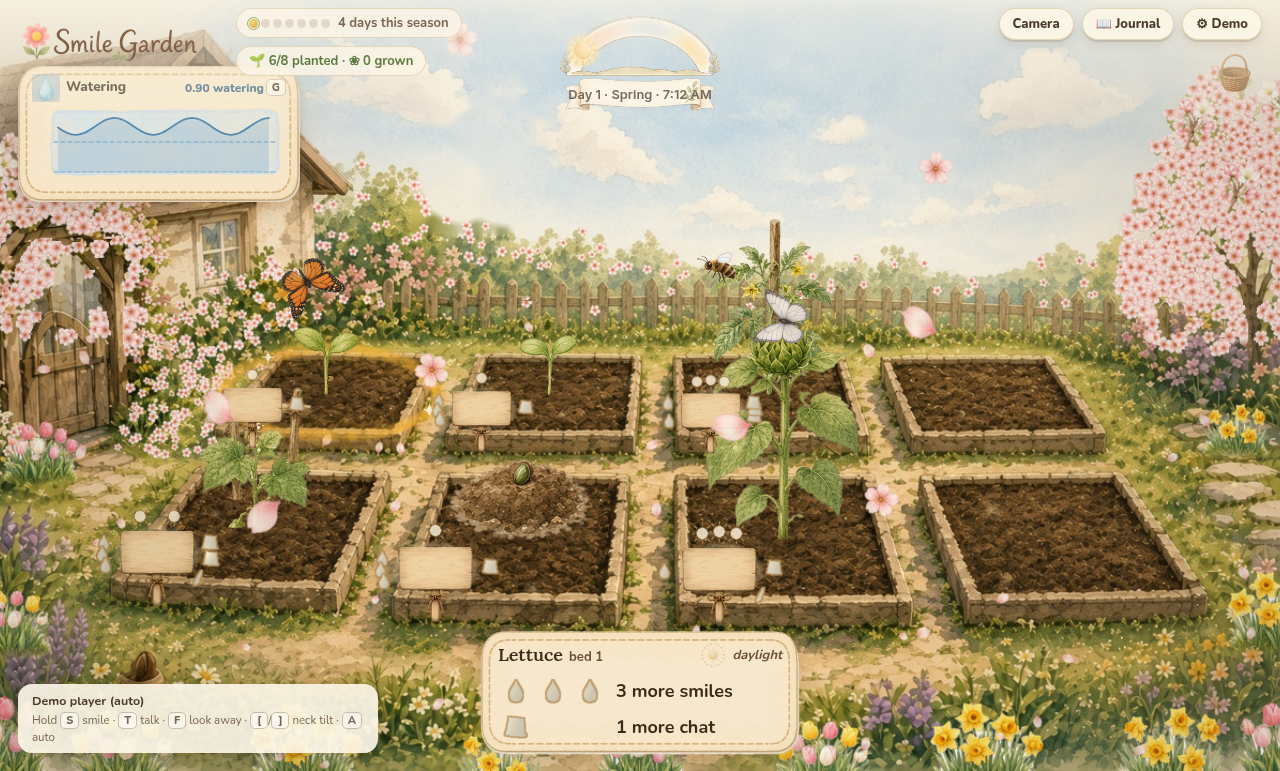
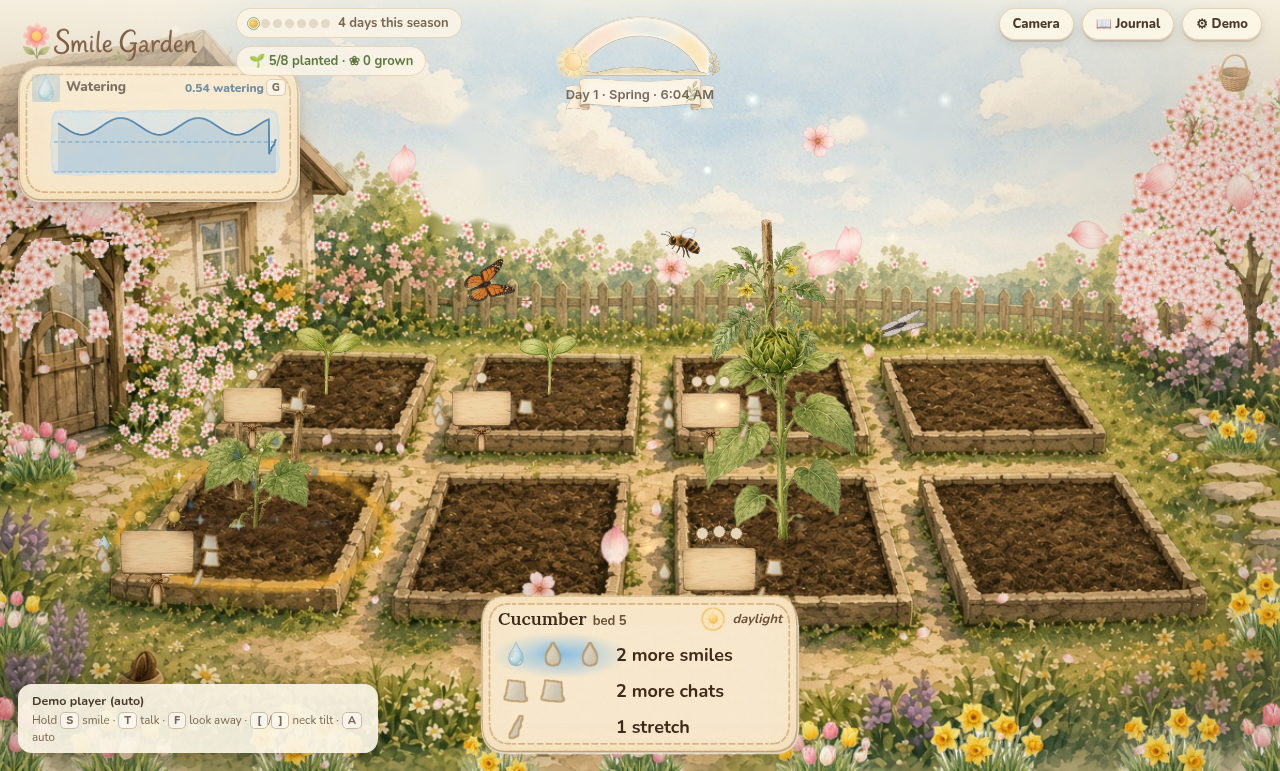
Show tend-strip row glow via artUrl-loaded img while channel is live
CSS background urls did not paint under Electron file://, so active row
halos use tend-row-glow <img> elements (same artUrl path as slot icons).
Sync session state before renderNeedsCard in capture hooks, keep
activeCareChannel pinned while a signal demo is locked, and prefer
demoCareChannel when rendering. Regenerate tend-strip-active-glow.png.

diff --git a/renderer/care-needs.css b/renderer/care-needs.css
@@ -55,6 +55,7 @@ body[data-lighting='night'] .tend-strip {
     gap: 10px;
     min-height: 32px;
     padding: 0 0 0 2px;
+    overflow: visible;
 }
 .tend-slots {
     display: flex;
@@ -79,38 +80,47 @@ body[data-lighting='night'] .tend-strip {
 .tend-care--done .tend-remain { color: #6B4F36; font-weight: 700; }
 .tend-check { width: 20px; height: 20px; object-fit: contain; position: relative; z-index: 1; flex: 0 0 auto; }
 
-/* ACTIVE: camera sees this action. Add .is-active to .tend-care (or .tend-harvest-icon);
-   remove it ~400ms after the signal drops. */
-.tend-care::before, .tend-harvest-icon::before {
-    content: '';
+/* ACTIVE: camera sees this action. Glow art is loaded via <img> (artUrl), not CSS url(),
+   so it works under file:// in Electron like the slot icons. */
+.tend-row-glow {
     position: absolute;
-    left: -12px; top: -10px;
-    width: 140px; height: 52px;
+    left: -14px;
+    top: -12px;
+    width: 152px;
+    height: 56px;
+    object-fit: fill;
     z-index: 0;
-    background: center / contain no-repeat;
+    pointer-events: none;
     opacity: 0;
     transform: scale(0.92);
     transition: opacity 0.35s ease, transform 0.35s ease;
-    pointer-events: none;
 }
-.tend-harvest-icon::before { left: -10px; top: -10px; width: 72px; height: 72px; }
-.tend-care.is-active::before, .tend-harvest-icon.is-active::before {
-    opacity: 1; transform: scale(1);
+.tend-harvest-glow {
+    position: absolute;
+    left: -10px;
+    top: -10px;
+    width: 72px;
+    height: 72px;
+    object-fit: fill;
+    z-index: 0;
+    pointer-events: none;
+    opacity: 0;
+    transform: scale(0.92);
+    transition: opacity 0.35s ease, transform 0.35s ease;
+}
+.tend-care.is-active .tend-row-glow,
+.tend-harvest-icon.is-active .tend-harvest-glow {
+    opacity: 1;
+    transform: scale(1);
+    filter: saturate(1.12) brightness(1.06);
     animation: tend-breathe 2.4s ease-in-out 0.35s infinite;
 }
 .tend-care.is-active .tend-slot-pip { transform: translateY(-1px); }
 .tend-care.is-active .tend-remain { color: #3E2A1A; }
-.tend-care[data-need='water']::before      { background-image: url('../assets/ui/tend/tend-glow-water-row.png'); }
-.tend-care[data-need='fertilizer']::before { background-image: url('../assets/ui/tend/tend-glow-fertilizer-row.png'); }
-.tend-care[data-need='stake']::before      { background-image: url('../assets/ui/tend/tend-glow-stake-row.png'); }
-.tend-harvest-icon::before                 { background-image: url('../assets/ui/tend/tend-glow-harvest-row.png'); }
-body[data-lighting='night'] .tend-care[data-need='water']::before      { background-image: url('../assets/ui/tend/tend-glow-water-row-night.png'); }
-body[data-lighting='night'] .tend-care[data-need='fertilizer']::before { background-image: url('../assets/ui/tend/tend-glow-fertilizer-row-night.png'); }
-body[data-lighting='night'] .tend-care[data-need='stake']::before      { background-image: url('../assets/ui/tend/tend-glow-stake-row-night.png'); }
-body[data-lighting='night'] .tend-harvest-icon::before                 { background-image: url('../assets/ui/tend/tend-glow-harvest-row-night.png'); }
 @keyframes tend-breathe { 50% { opacity: 0.6; transform: scale(0.96); } }
 @media (prefers-reduced-motion: reduce) {
-    .tend-care.is-active::before, .tend-harvest-icon.is-active::before { animation: none; }
+    .tend-care.is-active .tend-row-glow,
+    .tend-harvest-icon.is-active .tend-harvest-glow { animation: none; }
 }
 
 .tend-harvest { display: flex; align-items: center; gap: 12px; min-height: 56px; padding: 2px 0 4px; }
@@ -126,14 +136,10 @@ body[data-tend-strip='1'] #hint,
 body[data-tend-strip='1'] #toast { visibility: hidden !important; pointer-events: none; }
 
 /* Doc captures: keep row glow visible without waiting on CSS transition / reduced motion */
-body[data-capture-strip-glow='1'] .tend-care.is-active::before,
-body[data-capture-strip-glow='1'] .tend-harvest-icon.is-active::before {
+body[data-capture-strip-glow='1'] .tend-care.is-active .tend-row-glow,
+body[data-capture-strip-glow='1'] .tend-harvest-icon.is-active .tend-harvest-glow {
     opacity: 1 !important;
     transform: scale(1) !important;
     transition: none !important;
     animation: none !important;
-    z-index: 0 !important;
-}
-body[data-capture-strip-glow='1'] .tend-care.is-active {
-    overflow: visible;
 }

diff --git a/scripts/capture-driver.js b/scripts/capture-driver.js
@@ -551,6 +551,55 @@ async function run(win, outDir) {
     }
     const lightingTo = async (l) => { await G(`g.setLightingOverride('${l}')`); await sleep(2000); };
 
+    if (process.env.SMILE_GARDEN_STRIP_GLOW_ONLY === '1') {
+        await waitFor('ready', (d) => d.ready === '1');
+        await G('g.reset()');
+        await lightingTo('midday');
+        await G('g.ackWellness()');
+        await sleep(300);
+        if ((await ds()).screen !== 'camera-check') await G('g.openCameraCheck()');
+        await waitFor('camera check', (d) => d.screen === 'camera-check', 25000);
+        await G('g.markAllCameraChecksPassed()');
+        await sleep(400);
+        await G('g.finishCameraCheck()');
+        await sleep(400);
+        await G('g.prepCaptureGarden()');
+        await G('g.show("idle")');
+        await sleep(300);
+        const daySmileProgress = { sun: 2, water: 1, fertilizer: 0, stake: false };
+        await G(`g.setNeedsCardDemo(4, ${JSON.stringify(daySmileProgress)})`);
+        await G('g.setChartForCapture(true)');
+        await G(`g.setSignalPanelDemoForCapture('smile')`);
+        await G(`g.setTendStripActiveForCapture('water')`);
+        await G(`(() => { const s = window.__smileGarden?.source; if (s) s.setPhase('care-hub-smile'); return true; })()`);
+        await G('g.setCaptureStripGlow(true)');
+        await G(`g.setSignalPanelDemoForCapture('smile')`);
+        await G(`g.setTendStripActiveForCapture('water')`);
+        await sleep(200);
+        await G('g.captureRedraw()');
+        await sleep(80);
+        await js(`(() => new Promise((resolve, reject) => {
+            const row = document.querySelector('.tend-care[data-need="water"]');
+            if (!row) return reject(new Error('no water row'));
+            if (!row.classList.contains('is-active')) {
+                return reject(new Error('water row not active demo=' + document.body.dataset.demoCareChannel + ' class=' + row.className));
+            }
+            const glow = row.querySelector('.tend-row-glow');
+            if (!glow) return reject(new Error('no tend-row-glow img'));
+            const done = () => {
+                if (glow.naturalWidth > 0) resolve(true);
+                else reject(new Error('glow image has zero size'));
+            };
+            if (glow.complete) done();
+            else { glow.onload = () => done(); glow.onerror = () => reject(new Error('glow image failed to load')); }
+        }))()`);
+        await G('g.captureRedraw()');
+        await sleep(120);
+        await shot('tend-strip-active-glow.png');
+        app.quit();
+        return;
+    }
+
     await waitFor('ready', (d) => d.ready === '1');
     await G('g.reset()');
     await lightingTo('dawn');
@@ -653,9 +702,29 @@ async function run(win, outDir) {
         mockPhase: 'care-hub-smile',
     });
     await G('g.setCaptureStripGlow(true)');
+    await G(`g.setSignalPanelDemoForCapture('smile')`);
     await G(`g.setTendStripActiveForCapture('water')`);
     await sleep(200);
-    await G(`g.setTendStripActiveForCapture('water')`);
+    await G('g.captureRedraw()');
+    await sleep(80);
+    await js(`(() => new Promise((resolve, reject) => {
+        const row = document.querySelector('.tend-care[data-need="water"]');
+        if (!row) return reject(new Error('no water row'));
+        if (!row.classList.contains('is-active')) {
+            return reject(new Error('water row not active (demo=' + document.body.dataset.demoCareChannel + ')'));
+        }
+        const glow = row.querySelector('.tend-row-glow');
+        if (!glow) return reject(new Error('no tend-row-glow img'));
+        const done = () => {
+            if (glow.naturalWidth > 0) resolve(true);
+            else reject(new Error('glow image has zero size'));
+        };
+        if (glow.complete) done();
+        else {
+            glow.onload = () => done();
+            glow.onerror = () => reject(new Error('glow image failed to load'));
+        }
+    }))()`);
     await G('g.captureRedraw()');
     await sleep(120);
     await shot('tend-strip-active-glow.png');

diff --git a/renderer/care-needs-render.js b/renderer/care-needs-render.js
@@ -27,8 +27,16 @@
 
     function slotIsActive(needKey, activeChannel, nowMs) {
         const ch = CHANNEL_SLOT[activeChannel];
-        if (ch === needKey) lastActiveAt[needKey] = nowMs;
+        if (ch === needKey) {
+            lastActiveAt[needKey] = nowMs;
+            return true;
+        }
         return nowMs - (lastActiveAt[needKey] || 0) < HOLD_MS;
+    }
+
+    function rowGlowSrc(needKey, lighting) {
+        const night = lighting === 'night' ? '-night' : '';
+        return `../assets/ui/tend/tend-glow-${needKey}-row${night}.png`;
     }
 
     function sunGlowLevel(prog, needs, lighting) {
@@ -72,7 +80,8 @@
         const kind = L.plantById(pl.plantId);
         const allMet = C.allNeedsMet(prog, needs, pl.staked);
         const showResting = !!pl.tagResting && !allMet;
-        const activeCh = session.activeCareChannel;
+        const demoCh = typeof document !== 'undefined' ? document.body.dataset.demoCareChannel : '';
+        const activeCh = demoCh || session.activeCareChannel || null;
         const harvestReady = session.canCareHarvest && session.canCareHarvest(plot);
         const cardLight = lighting === 'night' ? 'night' : 'midday';
 
@@ -119,6 +128,14 @@
         if (harvestReady) {
             const harvestActive = slotIsActive('harvest', activeCh, nowMs);
             harvestIconEl.classList.toggle('is-active', harvestActive);
+            let harvestGlow = harvestIconEl.querySelector('.tend-harvest-glow');
+            if (!harvestGlow) {
+                harvestGlow = document.createElement('img');
+                harvestGlow.className = 'tend-harvest-glow';
+                harvestGlow.alt = '';
+                harvestIconEl.insertBefore(harvestGlow, harvestImgEl);
+            }
+            bindImg(harvestGlow, rowGlowSrc('harvest', cardLight), artUrl, null);
             bindImg(harvestImgEl, ART.needsIconSrc('harvest', 'midday'), artUrl, '🧺');
         } else if (harvestIconEl) {
             harvestIconEl.classList.remove('is-active');
@@ -133,13 +150,17 @@
         for (const spec of careSlots) {
             const stat = disp('filledAndLeft', C, prog, needs, spec.key, pl.staked);
             if (stat.req <= 0) continue;
-            const captureGlow = typeof document !== 'undefined' && document.body.dataset.captureStripGlow === '1';
-            const active = captureGlow && activeCh === spec.channel
-                ? true
-                : slotIsActive(spec.channel, activeCh, nowMs);
+            const channel = activeCh || demoCh;
+            const active = channel === spec.channel || slotIsActive(spec.channel, channel, nowMs);
             const row = document.createElement('div');
             row.className = 'tend-care' + (stat.done ? ' tend-care--done' : '') + (active ? ' is-active' : '');
             row.dataset.need = spec.key;
+
+            const glow = document.createElement('img');
+            glow.className = 'tend-row-glow';
+            glow.alt = '';
+            bindImg(glow, rowGlowSrc(spec.key, cardLight), artUrl, null);
+            row.appendChild(glow);
 
             const slots = document.createElement('span');
             slots.className = 'tend-slots';

diff --git a/renderer/dev-hooks.js b/renderer/dev-hooks.js
@@ -176,10 +176,12 @@
             show('visit');
             onStep('care-hub');
             if (els.tendStrip) els.tendStrip.hidden = false;
+            syncToApp();
             renderNeedsCard();
             refreshLighting();
             renderHud();
             plotsForScene({ instant: true });
+            syncToApp();
             return i;
         },
         clearCaptureVisit() {
@@ -234,18 +236,27 @@
                 signal.breathing = null;
             }
             if (session) {
+                session.smiling = m === 'smile';
+                session.talking = m === 'talk';
                 if (m === 'smile') session.activeCareChannel = 'water';
                 else if (m === 'talk') session.activeCareChannel = 'fertilizer';
                 else if (m === 'stretch') session.activeCareChannel = 'stake';
                 else if (m === 'breathe') session.activeCareChannel = 'harvest';
                 else session.activeCareChannel = null;
-                renderNeedsCard();
             }
+            document.body.dataset.demoCareChannel = m === 'smile' ? 'water'
+                : m === 'talk' ? 'fertilizer'
+                    : m === 'stretch' ? 'stake'
+                        : m === 'breathe' ? 'harvest'
+                            : '';
+            syncToApp();
+            if (session) renderNeedsCard();
             return m;
         },
         primeSignalTraceForCapture,
         clearSignalPanelDemoForCapture() {
             signalPanelDemoLock = null;
+            delete document.body.dataset.demoCareChannel;
             stretchDemoSnap = null;
             if (session) session.activeCareChannel = null;
             if (signalSwitcher && signalSwitcher.reset) signalSwitcher.reset();
@@ -313,6 +324,7 @@
             show('visit');
             onStep('care-hub');
             if (els.tendStrip) els.tendStrip.hidden = false;
+            syncToApp();
             renderNeedsCard();
             plotsForScene({ instant: true });
             return session.careProgressFor(i);
@@ -327,6 +339,7 @@
                     window.SmileTendStrip.resetActiveHold();
                 }
             }
+            syncToApp();
             renderNeedsCard();
             return channel;
         },

diff --git a/scripts/capture-screenshots.js b/scripts/capture-screenshots.js
@@ -18,6 +18,7 @@ const timeOnly = process.env.SMILE_GARDEN_TIME_SHOTS === '1';
 const cameraOnly = process.env.SMILE_GARDEN_CAPTURE_CAMERA_ONLY === '1';
 const stakeOnly = process.env.SMILE_GARDEN_STAKE_SHOTS === '1';
 const tagsOnly = process.env.SMILE_GARDEN_TAGS_SHOTS === '1';
+const stripGlowOnly = process.env.SMILE_GARDEN_STRIP_GLOW_ONLY === '1';
 const keepPng = new Set([
     'breath-mockup.png', 'camera-check-mockup.png',
     '02-greeting-dawn.png', '08-summary-growth.png', '10-greeting-night.png', '11-night-light-hint.png',
@@ -34,7 +35,7 @@ const keepPng = new Set([
     'needs-tag-complete-soil-day.png', 'needs-tag-resting-morning-day.png', 'needs-tag-night.png', 'needs-garden-tags-midday.png',
     'plants-clean-mature-garden.png', 'plants-clean-picked-garden.png',
 ]);
-if (!timeOnly && !cameraOnly && !stakeOnly && !tagsOnly) {
+if (!timeOnly && !cameraOnly && !stakeOnly && !tagsOnly && !stripGlowOnly) {
     for (const f of fs.readdirSync(outDir)) {
         if (f.endsWith('.png') && !keepPng.has(f)) fs.unlinkSync(path.join(outDir, f));
     }
@@ -48,6 +49,7 @@ const env = Object.assign({}, process.env, {
     SMILE_GARDEN_TIME_SHOTS: timeOnly ? '1' : (process.env.SMILE_GARDEN_TIME_SHOTS || ''),
     SMILE_GARDEN_STAKE_SHOTS: stakeOnly ? '1' : (process.env.SMILE_GARDEN_STAKE_SHOTS || ''),
     SMILE_GARDEN_TAGS_SHOTS: tagsOnly ? '1' : (process.env.SMILE_GARDEN_TAGS_SHOTS || ''),
+    SMILE_GARDEN_STRIP_GLOW_ONLY: stripGlowOnly ? '1' : (process.env.SMILE_GARDEN_STRIP_GLOW_ONLY || ''),
 });
 const child = spawn(electron, ['.', '--mock', '--fast', '--no-sandbox'], { cwd: root, env, stdio: 'inherit' });
 child.on('exit', (code) => process.exit(code || 0));

diff --git a/renderer/app.js b/renderer/app.js
@@ -1569,6 +1569,19 @@
         const input = currentInput();
         if (session && (session.step === 'stretch' || session.step === 'care-hub')) input.stretch = stretchSample();
         const events = session.update(dt, input);
+        if (signalPanelDemoLock && session && session.step === 'care-hub') {
+            if (signalPanelDemoLock === 'smile') {
+                session.smiling = true;
+                session.activeCareChannel = 'water';
+            } else if (signalPanelDemoLock === 'talk') {
+                session.talking = true;
+                session.activeCareChannel = 'fertilizer';
+            } else if (signalPanelDemoLock === 'stretch') {
+                session.activeCareChannel = 'stake';
+            } else if (signalPanelDemoLock === 'breathe') {
+                session.activeCareChannel = 'harvest';
+            }
+        }
         let breathPhase = null;
         if (session.activeCareChannel === 'harvest' && session.pacer && session.pacer.total > 0) {
             breathPhase = Math.sin((session.breathT / session.pacer.total) * Math.PI * 2);
